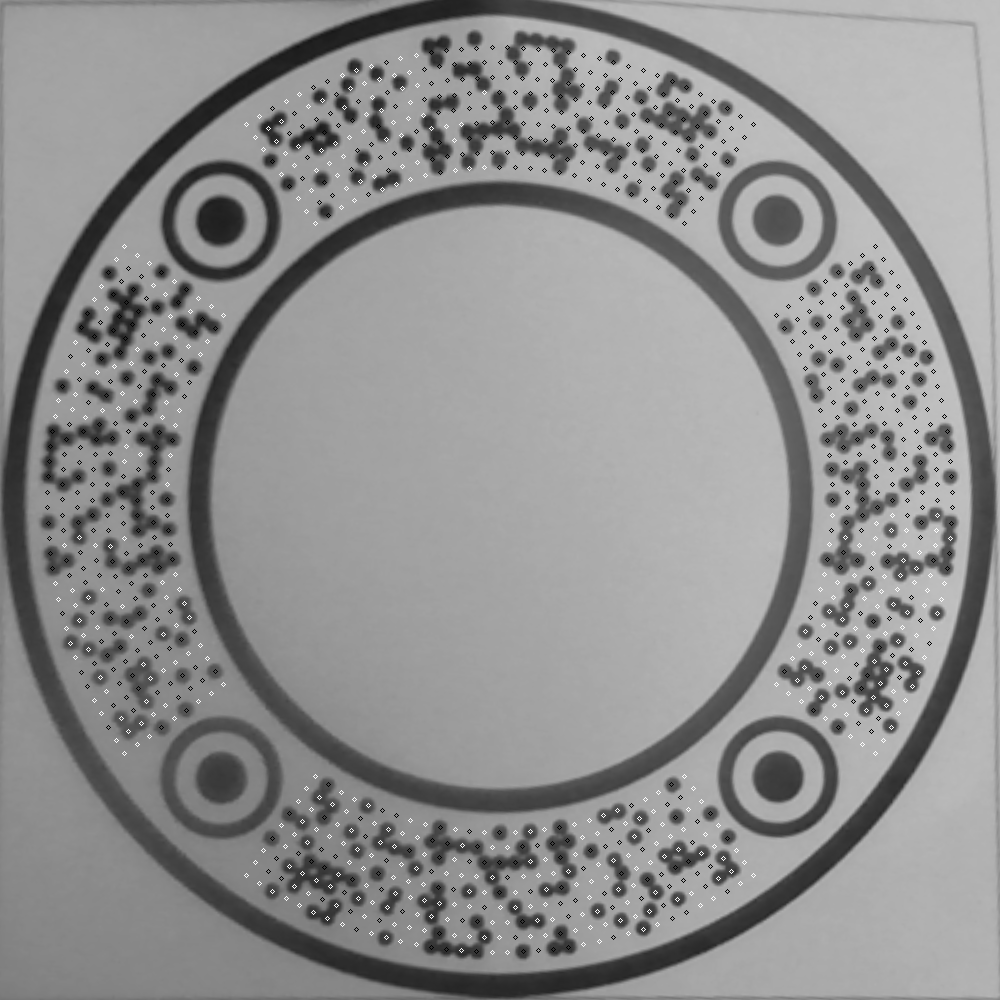
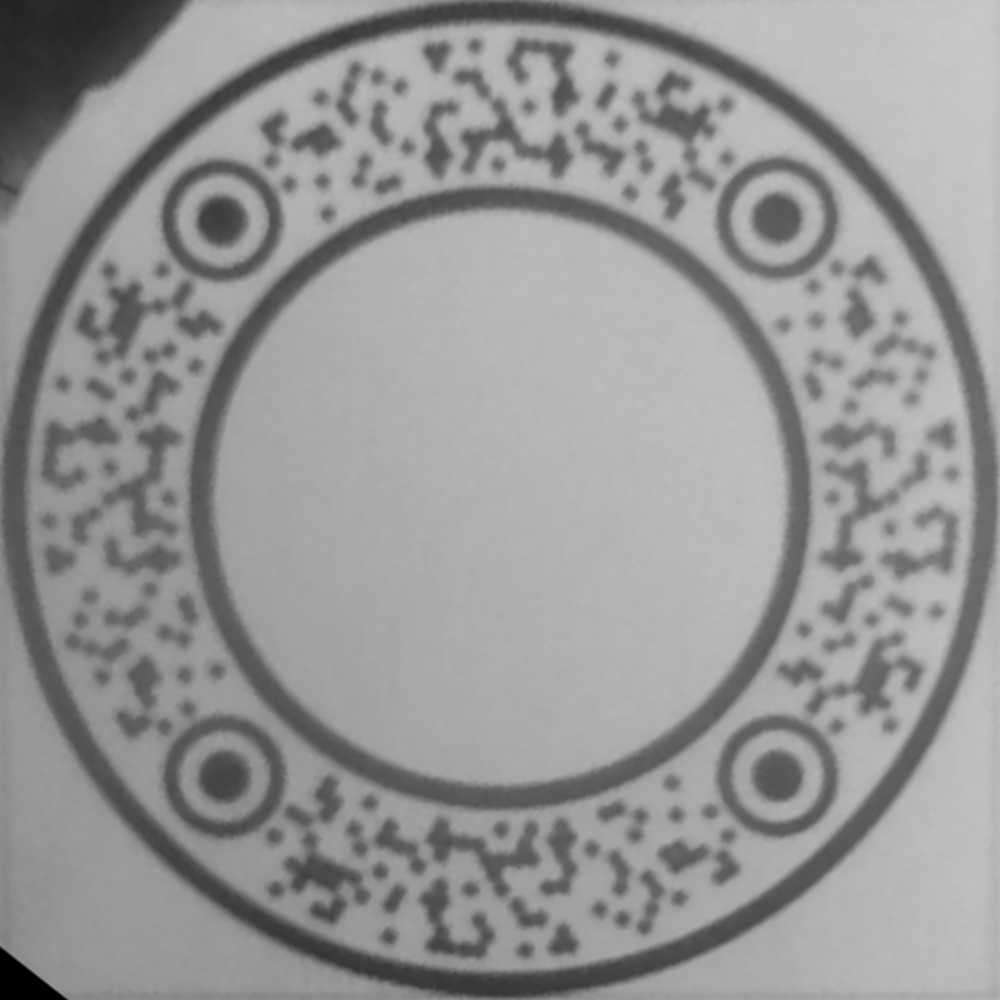
Stable? Realtime detection with good detection rate is working. Need to implement multiple cutoff eval value sampling

diff --git a/encodeUtil.py b/encodeUtil.py
@@ -97,17 +97,17 @@ def readPosCV(center, radius, img):
     radius = radius // 2
     radius = int(radius)
     for x in range(-radius, radius):
-        accum += img[ic[0]+x, ic[1]]
-        accum += img[ic[0], ic[1]+x]
+        accum += img[ic[1]+x, ic[0]]
+        accum += img[ic[1], ic[0]+x]
         iter+=2
 
-    val = (accum / iter) < 150
+    val = (accum / iter) < 120
     
     numVal = int(val)
     col = (255)
     if(numVal == 1):
         col = (0)
-    cv.circle(img, ic, 2, col, 1)
+    # cv.circle(img, ic, 2, col, 1)
     return numVal
 
 def readPos(center, radius, img):
@@ -125,12 +125,17 @@ def readPos(center, radius, img):
     numVal = int(val)
     return numVal
 
-def readPositions(positions, width, img):
+def readPositions(positions, width, img, opencv, imgdraw):
     currByte = []
     bits = []
     outputString = ""
     for pos in positions:
-        bit = readPosCV(pos, width, img)
+        
+        bit = None
+        if opencv:
+            bit = readPosCV(pos, width, img)
+        else:
+            bit = readPos(pos, width, img)
         bits.append(bit)
         #if(len(currByte) == 8):
         #    byteStr = "".join(str(b) for b in currByte[::])
@@ -140,12 +145,11 @@ def readPositions(positions, width, img):
         #    currByte = []
         #currByte.append(bit)
 
-        #if(bit == 1):
-        #    continue
-        #    circle(imgdraw, pos, 2, (200))
-        # else:
-        #    continue
-        #    circle(imgdraw, pos, 2, (100))
+        if(imgdraw is not None):
+            if(bit == 1):
+                circle(imgdraw, pos, 2, (200))
+            else:
+                circle(imgdraw, pos, 2, (100))
 
     return bits
     #return outputString
@@ -175,8 +179,8 @@ def checkValidity(original, data):
         print(f"\nLength of data does not match! (Original = {len(original)}, Data = {len(data)}")
         return 
 
-    print("\n"+original)
-    print(data)
+    # print("\n"+original)
+    # print(data)
     
     matches = 0
     for i in range(len(data)):
@@ -184,7 +188,7 @@ def checkValidity(original, data):
             matches += 1
             
     validity = (matches / len(data)) * 100
-    print(f"{validity}% match!\n")
+    # print(f"{validity}% match!\n")
 
     return validity
 
@@ -217,13 +221,18 @@ def readImage(image):
     reg4 = getPointsInRegion(amplitude, 270, minDist, maxDist, 15)
 
     readSectors = []
-    readSectors.append(readPositions(reg1, 15, image))
-    readSectors.append(readPositions(reg2, 15, image))
-    readSectors.append(readPositions(reg3, 15, image))
-    readSectors.append(readPositions(reg4, 15, image))
+    readSectors.append(readPositions(reg1, 15, image, True, None))
+    readSectors.append(readPositions(reg2, 15, image, True, None))
+    readSectors.append(readPositions(reg3, 15, image, True, None))
+    readSectors.append(readPositions(reg4, 15, image, True, None))
 
-    totalValidity = 0
-    for bitArray in readSectors:
+    ret = True
+    for i in range(len(readSectors)):
+        bitArray = readSectors[i]
         readString = bitArrayToString(bitArray)
-        totalValidity += checkValidity(ENCODED_STRING, readString)
-    return totalValidity / 4
+        validity = checkValidity(ENCODED_STRING, readString)
+
+        print(f"Sector {i}: {validity}%")
+        if(validity < 85):
+            ret = False
+    return ret

diff --git a/circleTest.py b/circleTest.py
@@ -65,6 +65,7 @@ while(True):
                     corners.append(newPos)
 
                 if len(corners) == 4:
+                    print("\nEVALUATING NEW THINGS -----")
                     
 
                     corners = sorted(corners, key=lambda c1: u.calcAngle((c1[0], c1[1]), sqrCenter))
@@ -73,9 +74,9 @@ while(True):
                     gray = cv.cvtColor(original, cv.COLOR_BGR2GRAY)
                     final = u.transformImage(floatCorners, gray)
                     final = cv.flip(final, 0)
-                    valididty = en.readImage(final)
+                    readCorrect = en.readImage(final)
 
-                    if(valididty > 1):
+                    if(True):#readCorrect):
                         paused = True
                         cv.imshow("Output", final)
                         cv.imwrite("out.png", final)
@@ -84,7 +85,7 @@ while(True):
                             cv.circle(src, corners[i], 5, (0, 0, 255), 3)
                             cv.putText(src, f"{i}", corners[i], cv.FONT_HERSHEY_SIMPLEX, 1, (255, 255, 255), 2)
                             i += 1
-                    
+
 
 
         cv.imshow("detected circles", src)

diff --git a/encode.py b/encode.py
@@ -34,10 +34,10 @@ scanned = scanned.convert('L')
 
 scannedWriter = ImageDraw.Draw(scanned)
 readSectors = []
-readSectors.append(en.readPositions(reg1, 15, scanned))
-readSectors.append(en.readPositions(reg2, 15, scanned))
-readSectors.append(en.readPositions(reg3, 15, scanned))
-readSectors.append(en.readPositions(reg4, 15, scanned))
+readSectors.append(en.readPositions(reg1, 15, scanned, False, scannedWriter))
+readSectors.append(en.readPositions(reg2, 15, scanned, False, scannedWriter))
+readSectors.append(en.readPositions(reg3, 15, scanned, False, scannedWriter))
+readSectors.append(en.readPositions(reg4, 15, scanned, False, scannedWriter))
 
 for bitArray in readSectors:
     readString = en.bitArrayToString(bitArray)
